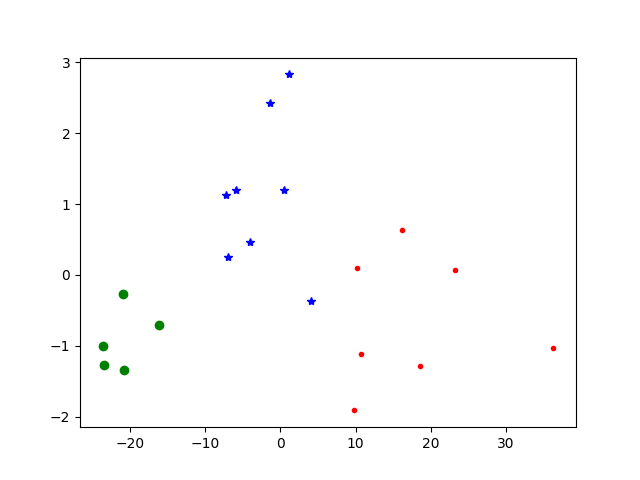
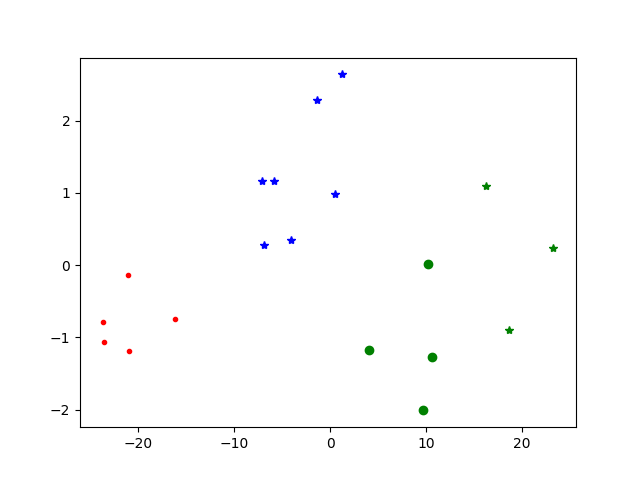
DSS

diff --git a/DSS_assign/km.py b/DSS_assign/km.py
@@ -26,6 +26,7 @@ import pandas as pd
 import numpy as np
 import matplotlib.pyplot as plt
 from DSS_assign.read import read_ex2
+from collections import Counter
 
 
 def ex2():
@@ -35,40 +36,51 @@ def ex2():
     # print(df)
     df1 = df.iloc[:, 1:]
     # print(df1)
-    kmeans = KMeans(n_clusters=3, random_state=10).fit(df1)
+    c_num = 5
+    kmeans = KMeans(n_clusters=c_num, random_state=10).fit(df1)
     df1['jllable'] = kmeans.labels_
     df_count_type = df1.groupby('jllable').apply(np.size)
 
     # 各个类别的数目
-    print(df_count_type)
+    # print(df_count_type)
     # 聚类中心
-    kmeans.cluster_centers_
+    print(kmeans.cluster_centers_)
     # 新的dataframe，命名为new_df ，并输出到本地，命名为new_df.csv。
     new_df = df1[:]
-    new_df
+    k_lst = list(new_df['jllable'])
+    # print(k_lst)
+    counter = Counter(k_lst)
+    print(counter.values())
+
     new_df.to_csv('new_df.csv')
 
     # 将用于聚类的数据的特征的维度降至2维，并输出降维后的数据，形成一个dataframe名字new_pca
     pca = PCA(n_components=2)
     new_pca = pd.DataFrame(pca.fit_transform(new_df))
+    print(new_df)
+    print(new_pca)
 
     # 可视化
+    # for i in range(0, c_num):
     d = new_pca[new_df['jllable'] == 0]
     plt.plot(d[0], d[1], 'r.')
+    print('d[0]', d[0], '======')
     d = new_pca[new_df['jllable'] == 1]
     plt.plot(d[0], d[1], 'go')
     d = new_pca[new_df['jllable'] == 2]
     plt.plot(d[0], d[1], 'b*')
+    d = new_pca[new_df['jllable'] == 3]
+    plt.plot(d[0], d[1], 'g*')
     plt.gcf().savefig('img/kmeans.png')
     plt.show()
 
     waters = ('0', '1', '2')
-    buy_number = [df_count_type[0], df_count_type[1], df_count_type[2]]
+    buy_number = [counter[0], counter[1], counter[2]]
     plt.barh(waters, buy_number)  # 横放条形图函数 barh
     plt.title('Customer Type')
     plt.savefig('img/kmeans_tx.png')
     plt.show()
-    return df_count_type[0], df_count_type[1], df_count_type[2]
+    return counter[0], counter[1], counter[2]
 
 
 if __name__ == '__main__':

diff --git a/DSS_assign/ex1.py b/DSS_assign/ex1.py
@@ -52,14 +52,14 @@ def ex1_1():
     plt.savefig("img/pair.jpg")
     plt.show()
 
-    X_train, X_test, Y_train, Y_test = train_test_split(sales.iloc[:, 2:], sales.sales, train_size=.80, random_state=0)
-    # print("原始数据特征:", sales.iloc[:, 2:].shape,
-    #       ",训练数据特征:", X_train.shape,
-    #       ",测试数据特征:", X_test.shape)
-    #
-    # print("原始数据标签:", sales.sales.shape,
-    #       ",训练数据标签:", Y_train.shape,
-    #       ",测试数据标签:", Y_test.shape)
+    X_train, X_test, Y_train, Y_test = train_test_split(sales.iloc[:, 2:], sales.sales, train_size=.70, random_state=0)
+    print("原始数据特征:", sales.iloc[:, 2:].shape,
+          ",训练数据特征:", X_train.shape,
+          ",测试数据特征:", X_test.shape)
+
+    print("原始数据标签:", sales.sales.shape,
+          ",训练数据标签:", Y_train.shape,
+          ",测试数据标签:", Y_test.shape)
 
     model = LinearRegression()
     model.fit(X_train, Y_train)
@@ -108,11 +108,11 @@ def ex1_2():
     res = op.linprog(-c, A_ub, B_ub, bounds=(x1, x2, x3))
     print(res)
     print("---------------------------------------------")
-    print("最大值为:", -res.fun)
+    print("最大值为:", int(-res.fun))
     print("户外广告：", round(res.x[0]), "专业杂志：", round(res.x[1]), "其他形式：", round(res.x[2]))
-    return -res.fun, round(res.x[0]), round(res.x[1]), round(res.x[2])
+    return int(-res.fun), round(res.x[0]), round(res.x[1]), round(res.x[2])
 
 
 if __name__ == '__main__':
-    # ex1_1()
+    ex1_1()
     ex1_2()

diff --git a/DSS_assign/win.py b/DSS_assign/win.py
@@ -74,13 +74,13 @@ ft = tf.Font(size=20)
 tk.Label(frame0, text='决策支持系统', width=0, height=4, font=ft).grid(row=0, column=0)
 # -------------ex1_1------------------------------------------------------
 # 创建输入框entry
-tk.Label(frame2, text='X1', width=0).grid(row=0, column=0)
+tk.Label(frame2, text='price', width=8).grid(row=0, column=0)
 e1 = tk.Entry(frame2, width=8)
 e1.grid(row=0, column=1)
-tk.Label(frame2, text='X2', width=0).grid(row=1, column=0)
+tk.Label(frame2, text='expense', width=8).grid(row=1, column=0)
 e2 = tk.Entry(frame2, width=8)
 e2.grid(row=1, column=1)
-tk.Label(frame2, text='X3', width=2).grid(row=2, column=0)
+tk.Label(frame2, text='production', width=8).grid(row=2, column=0)
 e3 = tk.Entry(frame2, width=8)
 e3.grid(row=2, column=1)
 
@@ -151,7 +151,6 @@ def km_cla():
     km1.delete(1.0, 'end')
     km2.delete(1.0, 'end')
     km3.delete(1.0, 'end')
-
     data = km.ex2()
     print(data)
     km1.insert('insert', data[0])

diff --git a/DSS_assign/write/write_ex1_1.py b/DSS_assign/write/write_ex1_1.py
@@ -31,7 +31,7 @@ def w_ex1_1(e1, e2, e3, pre):
         # 使用cursor()方法获取操作游标
         cursor = db.cursor()
         insert_sql = "INSERT INTO " + "predict_sales" + \
-                     " (`X_one`, `X_two`, `X_three`, `pre_sales`) " \
+                     " (`price`, `expenses`, `production`, `pre_sales`) " \
                      "values (%s, %s, %s, %s)"
         val = (e1, e2, e3, pre)
         cursor.execute(insert_sql, val)
